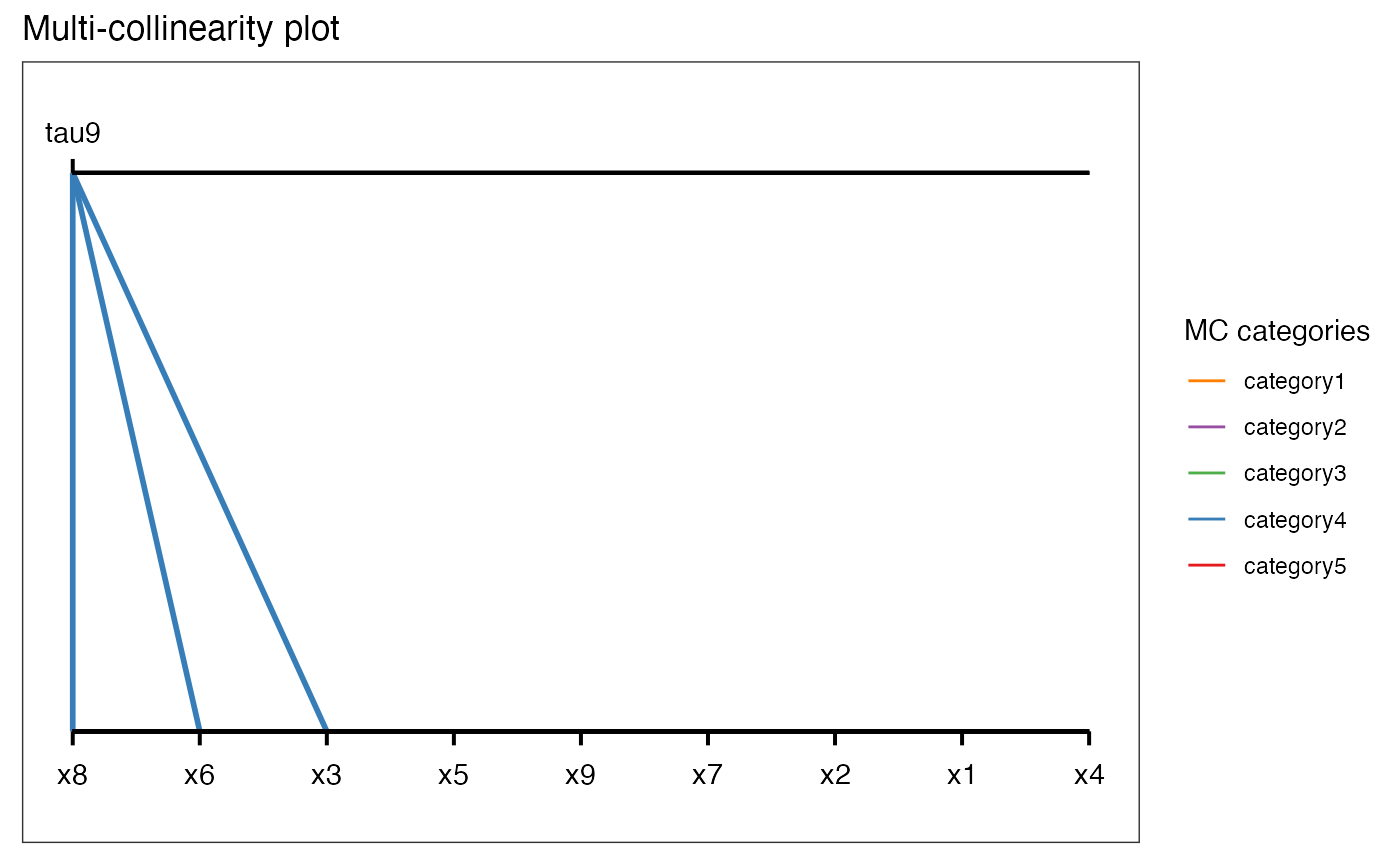
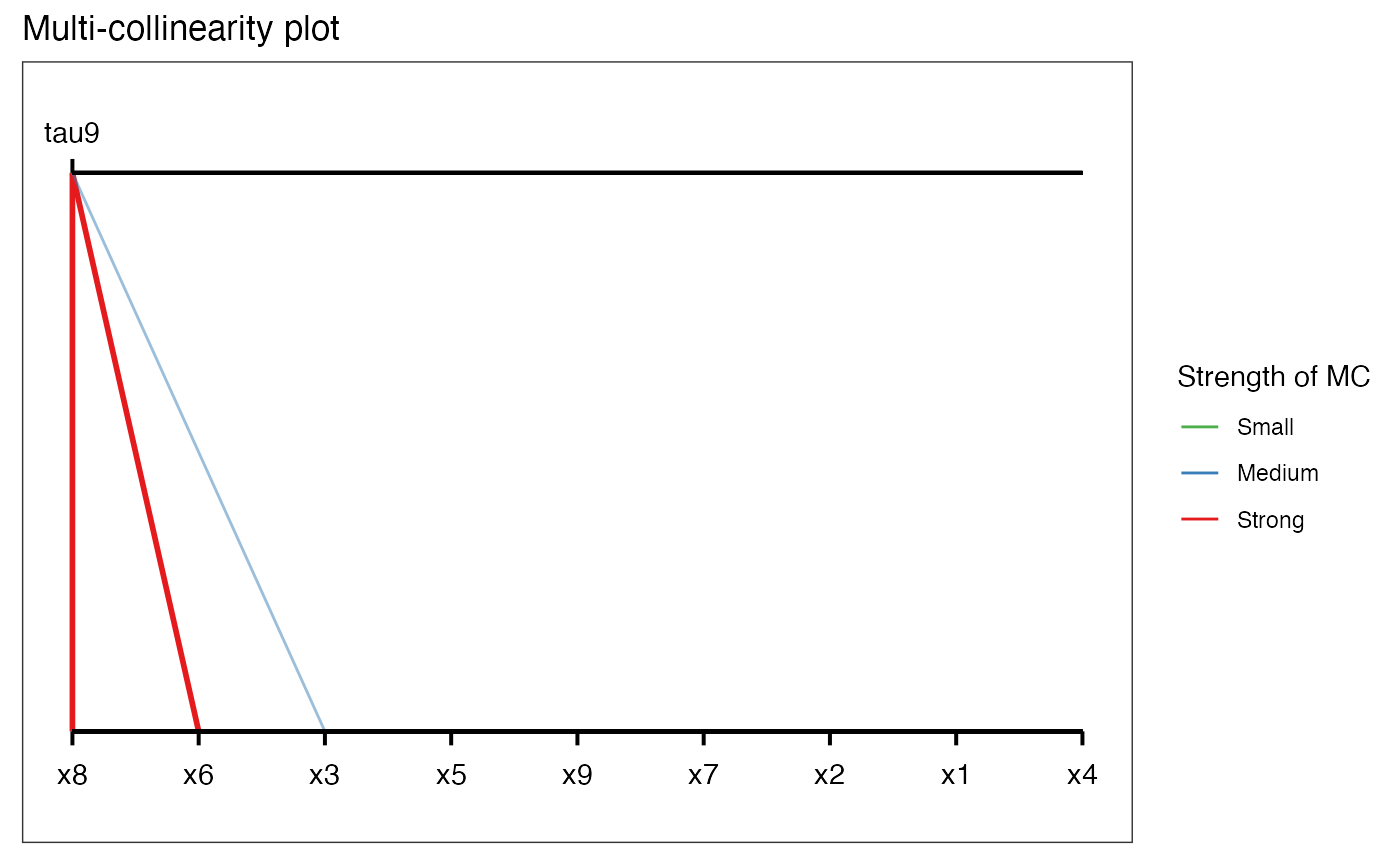
Built site for mcvis: 1.0.6@9507316

diff --git a/articles/mcvis.html b/articles/mcvis.html
@@ -69,7 +69,7 @@
       <h1 data-toc-skip>mcvis: Multi-collinearity Visualization</h1>
                         <h4 class="author">Kevin Wang, Chen Lin and Samuel Mueller</h4>
             
-            <h4 class="date">2020-09-05</h4>
+            <h4 class="date">2020-09-13</h4>
       
       
       <div class="hidden name"><code>mcvis.Rmd</code></div>
@@ -127,13 +127,8 @@
 <span class="kw">mcvis_result</span> <span class="op">=</span> <span class="fu"><a href="../reference/mcvis.html">mcvis</a></span>(X = <span class="kw">X</span>)
 
 <span class="kw">mcvis_result</span>
-<span class="co">#&gt;       X01  X02  X03  X04  X05  X06</span>
-<span class="co">#&gt; tau1 0.49 0.26 0.20 0.00 0.02 0.02</span>
-<span class="co">#&gt; tau2 0.37 0.21 0.15 0.17 0.05 0.05</span>
-<span class="co">#&gt; tau3 0.41 0.20 0.24 0.05 0.06 0.04</span>
-<span class="co">#&gt; tau4 0.15 0.14 0.06 0.23 0.22 0.20</span>
-<span class="co">#&gt; tau5 0.04 0.01 0.02 0.46 0.28 0.20</span>
-<span class="co">#&gt; tau6 0.51 0.25 0.24 0.00 0.00 0.00</span>
+<span class="co">#&gt;       X01  X02  X03 X04 X05 X06</span>
+<span class="co">#&gt; tau6 0.51 0.25 0.24   0   0   0</span>
 </pre></div>
 <p>This matrix of MC-indices is the main numeric output of <code>mcvis</code> and our visualisation techniques are focused on visualising this matrix. Below is a bipartite graph visualising the last row of this matrix, which is the main visualisation plot of <code>mcvis</code>.</p>
 <div class="sourceCode" id="cb3"><pre class="downlit">
@@ -169,16 +164,8 @@
 
 <span class="kw">mcvis_result</span> <span class="op">=</span> <span class="fu"><a href="../reference/mcvis.html">mcvis</a></span>(<span class="kw">X</span>)
 <span class="kw">mcvis_result</span>
-<span class="co">#&gt;        x1   x2   x3   x4   x5   x6   x7   x8   x9</span>
-<span class="co">#&gt; tau1 0.09 0.07 0.13 0.08 0.31 0.12 0.09 0.09 0.02</span>
-<span class="co">#&gt; tau2 0.16 0.02 0.15 0.06 0.02 0.36 0.03 0.16 0.02</span>
-<span class="co">#&gt; tau3 0.05 0.04 0.11 0.14 0.10 0.30 0.21 0.04 0.01</span>
-<span class="co">#&gt; tau4 0.04 0.11 0.16 0.11 0.02 0.36 0.10 0.07 0.03</span>
-<span class="co">#&gt; tau5 0.07 0.05 0.06 0.20 0.24 0.19 0.11 0.03 0.05</span>
-<span class="co">#&gt; tau6 0.10 0.05 0.20 0.04 0.26 0.17 0.03 0.06 0.10</span>
-<span class="co">#&gt; tau7 0.04 0.18 0.29 0.13 0.10 0.06 0.06 0.06 0.09</span>
-<span class="co">#&gt; tau8 0.21 0.07 0.28 0.03 0.06 0.23 0.05 0.05 0.04</span>
-<span class="co">#&gt; tau9 0.01 0.01 0.26 0.00 0.02 0.31 0.02 0.35 0.02</span>
+<span class="co">#&gt;        x1   x2   x3 x4   x5   x6   x7   x8   x9</span>
+<span class="co">#&gt; tau9 0.01 0.01 0.26  0 0.02 0.31 0.02 0.35 0.02</span>
 <span class="fu"><a href="https://rdrr.io/r/graphics/plot.default.html">plot</a></span>(<span class="kw">mcvis_result</span>)
 </pre></div>
 <p><img src="mcvis_files/figure-html/unnamed-chunk-5-1.png" width="700"></p>
@@ -226,10 +213,10 @@
 <span class="co">#&gt; [1] mplot_1.0.4 mcvis_1.0.6</span>
 <span class="co">#&gt; </span>
 <span class="co">#&gt; loaded via a namespace (and not attached):</span>
-<span class="co">#&gt;  [1] tidyselect_1.1.0     xfun_0.16            purrr_0.3.4         </span>
+<span class="co">#&gt;  [1] tidyselect_1.1.0     xfun_0.17            purrr_0.3.4         </span>
 <span class="co">#&gt;  [4] reshape2_1.4.4       lattice_0.20-41      colorspace_1.4-1    </span>
 <span class="co">#&gt;  [7] vctrs_0.3.4          generics_0.0.2       htmltools_0.5.0     </span>
-<span class="co">#&gt; [10] yaml_2.2.1           rlang_0.4.7          pkgdown_1.5.1.9000  </span>
+<span class="co">#&gt; [10] yaml_2.2.1           rlang_0.4.7          pkgdown_1.6.1.9000  </span>
 <span class="co">#&gt; [13] pillar_1.4.6         later_1.1.0.1        glue_1.4.2          </span>
 <span class="co">#&gt; [16] RColorBrewer_1.1-2   rngtools_1.5         doRNG_1.8.2         </span>
 <span class="co">#&gt; [19] foreach_1.5.0        lifecycle_0.2.0      plyr_1.8.6          </span>
@@ -240,9 +227,9 @@
 <span class="co">#&gt; [34] parallel_4.0.2       Rcpp_1.0.5           xtable_1.8-4        </span>
 <span class="co">#&gt; [37] scales_1.1.1         backports_1.1.9      promises_1.1.1      </span>
 <span class="co">#&gt; [40] desc_1.2.0           cpp11_0.2.1          tmvnsim_1.0-2       </span>
-<span class="co">#&gt; [43] farver_2.0.3         mime_0.9             systemfonts_0.3.0   </span>
+<span class="co">#&gt; [43] farver_2.0.3         mime_0.9             systemfonts_0.3.1   </span>
 <span class="co">#&gt; [46] fs_1.5.0             mnormt_2.0.2         ggplot2_3.3.2       </span>
-<span class="co">#&gt; [49] digest_0.6.25        stringi_1.4.6        dplyr_1.0.2         </span>
+<span class="co">#&gt; [49] digest_0.6.25        stringi_1.5.3        dplyr_1.0.2         </span>
 <span class="co">#&gt; [52] shiny_1.5.0          grid_4.0.2           rprojroot_1.3-2     </span>
 <span class="co">#&gt; [55] tools_4.0.2          magrittr_1.5         tibble_3.0.3        </span>
 <span class="co">#&gt; [58] crayon_1.3.4         pkgconfig_2.0.3      ellipsis_0.3.1      </span>
@@ -268,7 +255,7 @@
 </div>
 
 <div class="pkgdown">
-  <p>Site built with <a href="https://pkgdown.r-lib.org/">pkgdown</a> 1.5.1.9000.</p>
+  <p>Site built with <a href="https://pkgdown.r-lib.org/">pkgdown</a> 1.6.1.9000.</p>
 </div>
 
       </footer>

diff --git a/reference/mcvis.html b/reference/mcvis.html
@@ -175,17 +175,8 @@ and 'none' (no standardisation)</p></td>
 <span class='kw'>X</span>[,<span class='fl'>1</span>] <span class='op'>=</span> <span class='kw'>X</span>[,<span class='fl'>2</span>] <span class='op'>+</span> <span class='fu'><a href='https://rdrr.io/r/stats/Normal.html'>rnorm</a></span>(<span class='kw'>n</span>, <span class='fl'>0</span>, <span class='fl'>0.1</span>)
 <span class='kw'>mcvis_result</span> <span class='op'>=</span> <span class='fu'>mcvis</span>(X = <span class='kw'>X</span>)
 <span class='kw'>mcvis_result</span>
-</div><div class='output co'>#&gt;        X01  X02  X03  X04  X05  X06  X07  X08  X09  X10
-#&gt; tau1  0.17 0.17 0.14 0.08 0.21 0.02 0.03 0.11 0.03 0.04
-#&gt; tau2  0.04 0.04 0.06 0.17 0.03 0.07 0.15 0.16 0.05 0.23
-#&gt; tau3  0.07 0.07 0.07 0.08 0.05 0.22 0.19 0.09 0.10 0.07
-#&gt; tau4  0.08 0.08 0.13 0.05 0.09 0.14 0.07 0.20 0.05 0.11
-#&gt; tau5  0.17 0.16 0.09 0.07 0.13 0.05 0.06 0.10 0.10 0.08
-#&gt; tau6  0.10 0.10 0.04 0.03 0.16 0.07 0.29 0.06 0.04 0.09
-#&gt; tau7  0.06 0.06 0.07 0.08 0.10 0.05 0.22 0.26 0.06 0.05
-#&gt; tau8  0.02 0.02 0.17 0.23 0.09 0.09 0.06 0.23 0.03 0.07
-#&gt; tau9  0.04 0.04 0.10 0.08 0.05 0.17 0.04 0.04 0.34 0.11
-#&gt; tau10 0.50 0.50 0.00 0.00 0.00 0.00 0.00 0.00 0.00 0.00</div></pre>
+</div><div class='output co'>#&gt;       X01 X02 X03 X04 X05 X06 X07 X08 X09 X10
+#&gt; tau10 0.5 0.5   0   0   0   0   0   0   0   0</div></pre>
   </div>
   <div class="col-md-3 hidden-xs hidden-sm" id="pkgdown-sidebar">
     <nav id="toc" data-toggle="toc" class="sticky-top">
@@ -201,7 +192,7 @@ and 'none' (no standardisation)</p></td>
 </div>
 
 <div class="pkgdown">
-  <p>Site built with <a href="https://pkgdown.r-lib.org/">pkgdown</a> 1.5.1.9000.</p>
+  <p>Site built with <a href="https://pkgdown.r-lib.org/">pkgdown</a> 1.6.1.9000.</p>
 </div>
 
       </footer>

diff --git a/authors.html b/authors.html
@@ -157,7 +157,7 @@ doi: <a href="https://doi.org/10.1080/10618600.2020.1779729">10.1080/10618600.20
 </div>
 
 <div class="pkgdown">
-  <p>Site built with <a href="https://pkgdown.r-lib.org/">pkgdown</a> 1.5.1.9000.</p>
+  <p>Site built with <a href="https://pkgdown.r-lib.org/">pkgdown</a> 1.6.1.9000.</p>
 </div>
 
       </footer>

diff --git a/404.html b/404.html
@@ -131,7 +131,7 @@ Content not found. Please use links in the navbar.
 </div>
 
 <div class="pkgdown">
-  <p>Site built with <a href="https://pkgdown.r-lib.org/">pkgdown</a> 1.5.1.9000.</p>
+  <p>Site built with <a href="https://pkgdown.r-lib.org/">pkgdown</a> 1.6.1.9000.</p>
 </div>
 
       </footer>

diff --git a/reference/plot.mcvis.html b/reference/plot.mcvis.html
@@ -201,7 +201,7 @@ Multi-collinearity Visualization plots" />
 </div>
 
 <div class="pkgdown">
-  <p>Site built with <a href="https://pkgdown.r-lib.org/">pkgdown</a> 1.5.1.9000.</p>
+  <p>Site built with <a href="https://pkgdown.r-lib.org/">pkgdown</a> 1.6.1.9000.</p>
 </div>
 
       </footer>

diff --git a/articles/index.html b/articles/index.html
@@ -130,7 +130,7 @@
 </div>
 
 <div class="pkgdown">
-  <p>Site built with <a href="https://pkgdown.r-lib.org/">pkgdown</a> 1.5.1.9000.</p>
+  <p>Site built with <a href="https://pkgdown.r-lib.org/">pkgdown</a> 1.6.1.9000.</p>
 </div>
 
       </footer>

diff --git a/index.html b/index.html
@@ -162,7 +162,7 @@
 </div>
 
 <div class="pkgdown">
-  <p>Site built with <a href="https://pkgdown.r-lib.org/">pkgdown</a> 1.5.1.9000.</p>
+  <p>Site built with <a href="https://pkgdown.r-lib.org/">pkgdown</a> 1.6.1.9000.</p>
 </div>
 
       </footer>

diff --git a/news/index.html b/news/index.html
@@ -138,7 +138,7 @@
 </div>
 
 <div class="pkgdown">
-  <p>Site built with <a href="https://pkgdown.r-lib.org/">pkgdown</a> 1.5.1.9000.</p>
+  <p>Site built with <a href="https://pkgdown.r-lib.org/">pkgdown</a> 1.6.1.9000.</p>
 </div>
 
       </footer>

diff --git a/reference/index.html b/reference/index.html
@@ -168,7 +168,7 @@
 </div>
 
 <div class="pkgdown">
-  <p>Site built with <a href="https://pkgdown.r-lib.org/">pkgdown</a> 1.5.1.9000.</p>
+  <p>Site built with <a href="https://pkgdown.r-lib.org/">pkgdown</a> 1.6.1.9000.</p>
 </div>
 
       </footer>

diff --git a/reference/shiny_mcvis.html b/reference/shiny_mcvis.html
@@ -162,7 +162,7 @@
 </div>
 
 <div class="pkgdown">
-  <p>Site built with <a href="https://pkgdown.r-lib.org/">pkgdown</a> 1.5.1.9000.</p>
+  <p>Site built with <a href="https://pkgdown.r-lib.org/">pkgdown</a> 1.6.1.9000.</p>
 </div>
 
       </footer>
